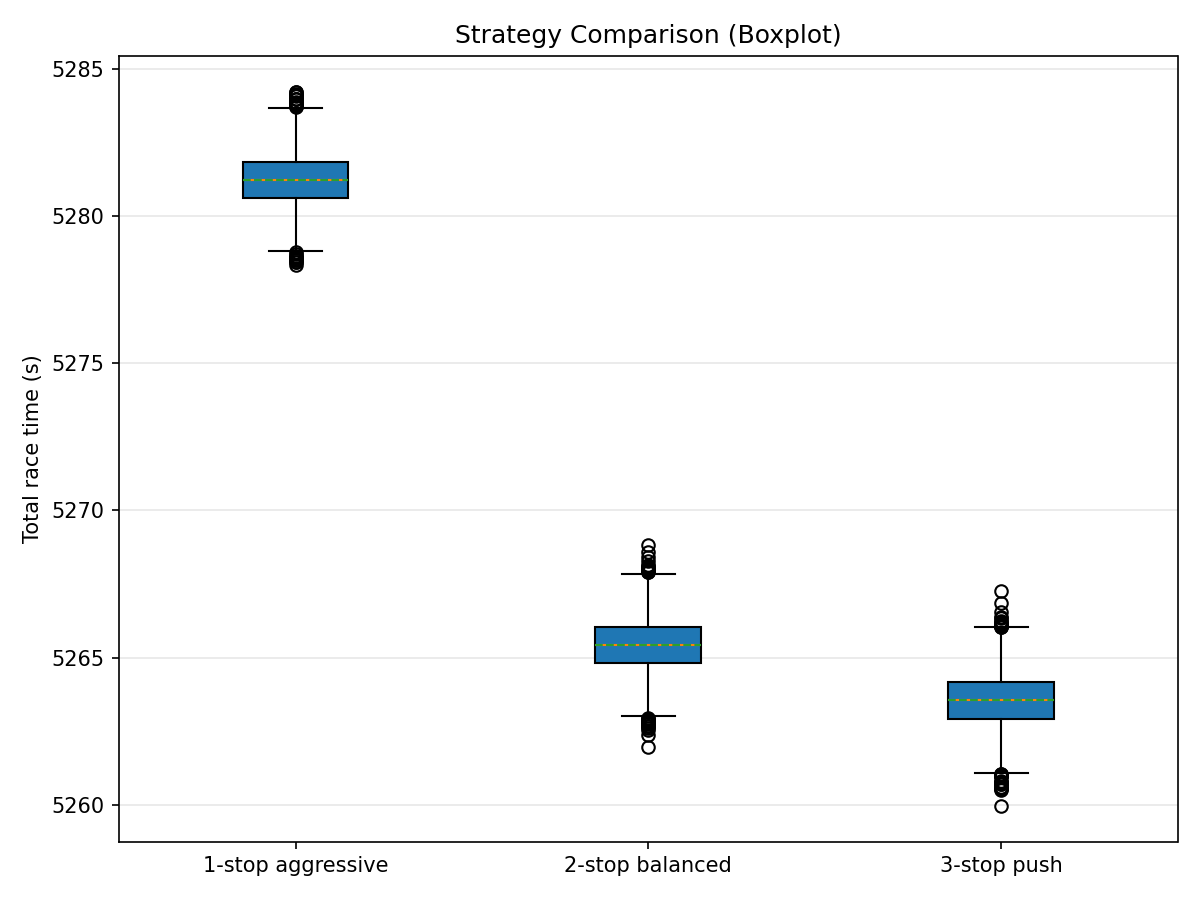
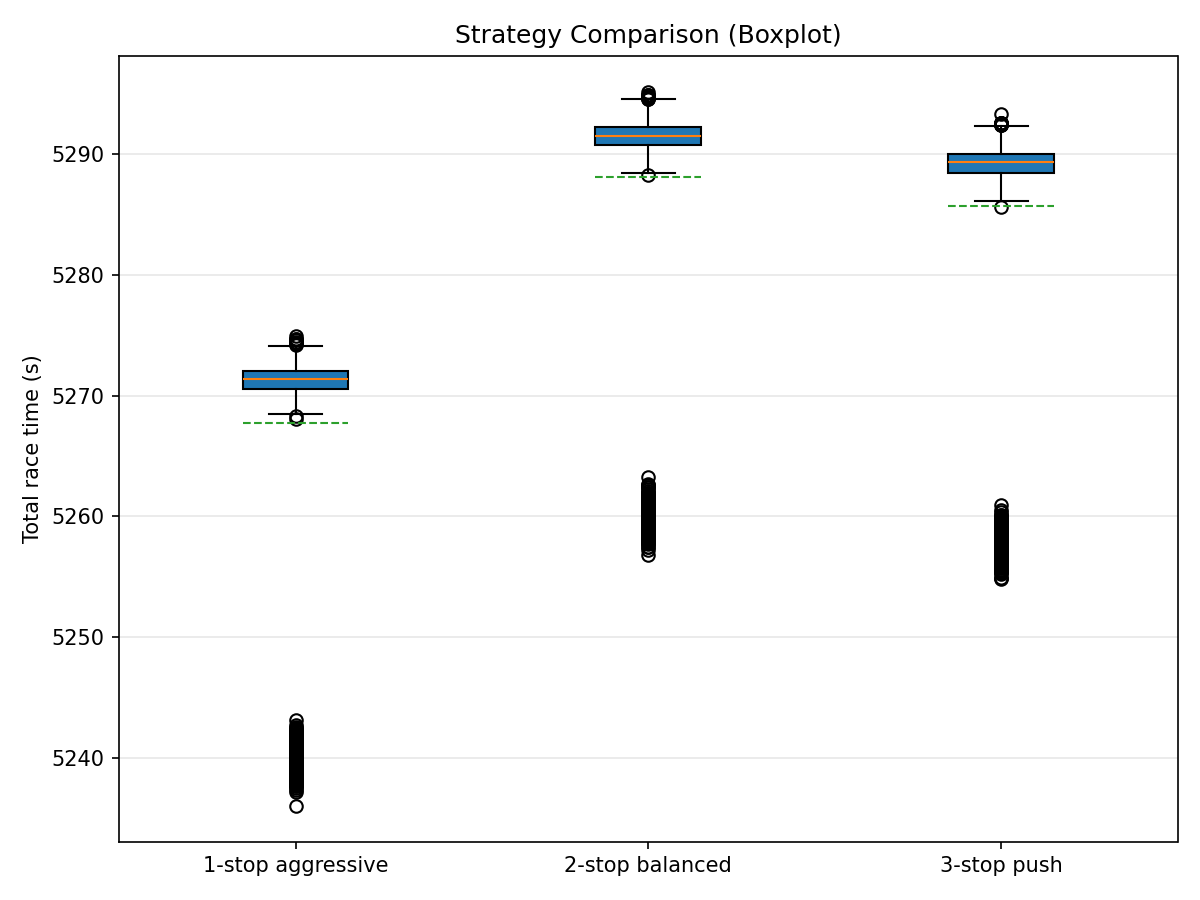
introduced pitstops, safety car effects

diff --git a/src/montecarlo.py b/src/montecarlo.py
@@ -5,12 +5,17 @@ Monte Carlo race simulation utilities.
 from __future__ import annotations
 
 import math
+import random
 from dataclasses import dataclass
 from statistics import fmean, median
 from typing import Dict, Iterable, List, Sequence
 
-from .lap_model import simulate_lap
+from .lap_model import PIT_STOP_LOSS, simulate_lap
 from .strategy import Strategy
+
+SAFETY_CAR_PROBABILITY = 0.12
+SAFETY_CAR_LAP_RANGE = (20, 40)
+SAFETY_CAR_LAP_MULTIPLIER = 0.65
 
 
 @dataclass(frozen=True)
@@ -65,17 +70,43 @@ class MonteCarloSimulator:
         return [self._simulate_single_race(strategy) for _ in range(self.runs)]
 
     def _simulate_single_race(self, strategy: Strategy) -> float:
+        opponent_schedule = self._generate_opponent_schedule(strategy)
+        opponent_stint = 0
+        opponent_lap_in_stint = 0
+
+        safety_car_lap = self._maybe_trigger_safety_car()
+
         total_time = 0.0
         completed_laps = 0
-        for stint in strategy.stints:
+        for stint_index, stint in enumerate(strategy.stints):
+            if stint_index > 0:
+                total_time += PIT_STOP_LOSS
+
             for lap_in_stint in range(stint.length):
                 completed_laps += 1
                 fuel_laps = self.race_laps - completed_laps
-                total_time += simulate_lap(
+
+                opponent_age = opponent_lap_in_stint
+                lap_time = simulate_lap(
                     compound=stint.compound,
                     lap_age=lap_in_stint,
                     fuel_laps=fuel_laps,
+                    opponent_lap_age=opponent_age,
                 )
+
+                if safety_car_lap and completed_laps == safety_car_lap:
+                    lap_time *= SAFETY_CAR_LAP_MULTIPLIER
+
+                total_time += lap_time
+
+                opponent_lap_in_stint += 1
+                if (
+                    opponent_stint < len(opponent_schedule)
+                    and opponent_lap_in_stint >= opponent_schedule[opponent_stint]
+                ):
+                    opponent_stint += 1
+                    opponent_lap_in_stint = 0
+
         return total_time
 
     def _validate_strategy(self, strategy: Strategy) -> None:
@@ -84,6 +115,34 @@ class MonteCarloSimulator:
             raise ValueError(
                 f"Strategy '{strategy.name}' covers {total} laps but race requires {self.race_laps}."
             )
+
+    def _generate_opponent_schedule(self, strategy: Strategy) -> List[int]:
+        """Create a plausible competitor pit plan by jittering stint lengths."""
+        remaining = self.race_laps
+        schedule: List[int] = []
+        for idx, stint in enumerate(strategy.stints):
+            stints_left = len(strategy.stints) - idx - 1
+            min_required = stints_left
+            if idx == len(strategy.stints) - 1:
+                length = remaining
+            else:
+                jitter = random.randint(-3, 3)
+                desired = stint.length + jitter
+                length = max(1, min(remaining - min_required, desired))
+            schedule.append(length)
+            remaining -= length
+        if schedule:
+            schedule[-1] += remaining
+        return schedule
+
+    def _maybe_trigger_safety_car(self) -> int | None:
+        if random.random() > SAFETY_CAR_PROBABILITY:
+            return None
+        start, end = SAFETY_CAR_LAP_RANGE
+        end = min(end, self.race_laps)
+        if start > end:
+            return None
+        return random.randint(start, end)
 
 
 def _percentile(data: List[float], percentile: float) -> float:

diff --git a/src/lap_model.py b/src/lap_model.py
@@ -6,7 +6,7 @@ and random variability to emulate on-track conditions.
 from __future__ import annotations
 
 import random
-from typing import Dict
+from typing import Dict, Optional
 
 from .degradation import get_degradation
 
@@ -18,16 +18,26 @@ BASE_LAP_TIMES: Dict[str, float] = {
 
 FUEL_COEFFICIENT = 0.035  # seconds of penalty per lap of fuel remaining
 VARIANCE = 0.12  # standard deviation for stochastic component
+PIT_STOP_LOSS = 21.0  # stationary time per pit stop
+UNDERCUT_THRESHOLD = 4  # lap delta required for undercut bonus
+UNDERCUT_BONUS = 0.15  # seconds gained during undercut window
+UNDERCUT_LAPS = 3  # number of laps the bonus applies
 
 
-def simulate_lap(compound: str, lap_age: float, fuel_laps: float) -> float:
+def simulate_lap(
+    compound: str,
+    lap_age: float,
+    fuel_laps: float,
+    opponent_lap_age: Optional[float] = None,
+) -> float:
     """
     Simulate the lap time for the given compound and conditions.
 
     Args:
         compound: Tire compound in use.
-        lap_age: Number of laps already completed on the current tire set.
+        lap_age: Laps already completed on the current tire set.
         fuel_laps: Estimated laps of fuel remaining (higher => heavier car).
+        opponent_lap_age: Estimated lap age of the primary competitor's tires.
 
     Returns:
         Lap time in seconds.
@@ -41,10 +51,22 @@ def simulate_lap(compound: str, lap_age: float, fuel_laps: float) -> float:
     base_time = BASE_LAP_TIMES[key]
     fuel_penalty = FUEL_COEFFICIENT * max(fuel_laps, 0)
     tire_deg = get_degradation(key, lap_age)
+    opponent_age = opponent_lap_age if opponent_lap_age is not None else lap_age
+    undercut_bonus = (
+        UNDERCUT_BONUS
+        if lap_age < UNDERCUT_LAPS and (opponent_age - lap_age) >= UNDERCUT_THRESHOLD
+        else 0.0
+    )
     noise = random.gauss(0.0, VARIANCE)
 
-    return base_time + fuel_penalty + tire_deg + noise
+    return base_time + fuel_penalty + tire_deg + noise - undercut_bonus
 
 
-__all__ = ["simulate_lap", "BASE_LAP_TIMES", "FUEL_COEFFICIENT", "VARIANCE"]
+__all__ = [
+    "simulate_lap",
+    "BASE_LAP_TIMES",
+    "FUEL_COEFFICIENT",
+    "VARIANCE",
+    "PIT_STOP_LOSS",
+]
 

diff --git a/src/degradation.py b/src/degradation.py
@@ -17,23 +17,26 @@ from typing import Dict
 
 @dataclass(frozen=True)
 class TireCompoundModel:
-    """Encapsulates the coefficients for a tire compound degradation model."""
+    """Encapsulates the degradation behavior for a tire compound."""
 
     name: str
-    a: float
-    b: float
+    base_deg: float
 
     def degradation(self, lap_age: float) -> float:
-        """Compute the degradation time loss for the given lap age."""
+        """
+        Compute degradation penalty based on a nonlinear growth curve.
+
+        deg = base_deg * (1 + 0.015 * lap_age ** 1.1)
+        """
         if lap_age < 0:
             raise ValueError("lap_age must be non-negative")
-        return self.a * lap_age ** 1.2 + self.b * lap_age
+        return self.base_deg * (1.0 + 0.015 * (lap_age ** 1.1))
 
 
 COMPOUND_MODELS: Dict[str, TireCompoundModel] = {
-    "soft": TireCompoundModel("soft", a=0.020, b=0.035),
-    "medium": TireCompoundModel("medium", a=0.015, b=0.025),
-    "hard": TireCompoundModel("hard", a=0.010, b=0.020),
+    "soft": TireCompoundModel("soft", base_deg=0.23),
+    "medium": TireCompoundModel("medium", base_deg=0.17),
+    "hard": TireCompoundModel("hard", base_deg=0.13),
 }
 
 

diff --git a/README.md b/README.md
@@ -5,9 +5,12 @@ Monte Carlo simulator for Formula 1 race strategies. The tool models tire degrad
 ## Features
 
 - Polynomial tire degradation tuned per compound
-- Lap-time model that blends base pace, fuel effect, and randomness
+- Lap-time model that blends base pace, fuel effect, opponent-based undercut,
+  and randomness
 - Built-in 1-stop, 2-stop, and 3-stop strategy templates
-- Monte Carlo statistics (mean, median, 5th/95th percentiles)
+- Monte Carlo statistics (mean, median, 5th/95th percentiles) with optional
+  plotting utilities
+- Safety-car events and pit-stop timing jitter for added realism
 
 ## Project Structure
 
@@ -54,7 +57,9 @@ Best strategy based on mean race time:
 
 - Adjust `RACE_LAPS` or `RUNS` in `src/main.py` to explore different events or sampling levels.
 - Modify `get_preset_strategies` in `src/strategy.py` to test custom stint lengths.
-- Tweak the degradation coefficients in `src/degradation.py` or base lap times in `src/lap_model.py` to match specific circuits.
+- Tweak the degradation coefficients in `src/degradation.py`, fuel/pit/undercut
+  parameters in `src/lap_model.py`, or safety-car odds in `src/montecarlo.py`
+  to match specific circuits or eras.
 
 ## License
 
